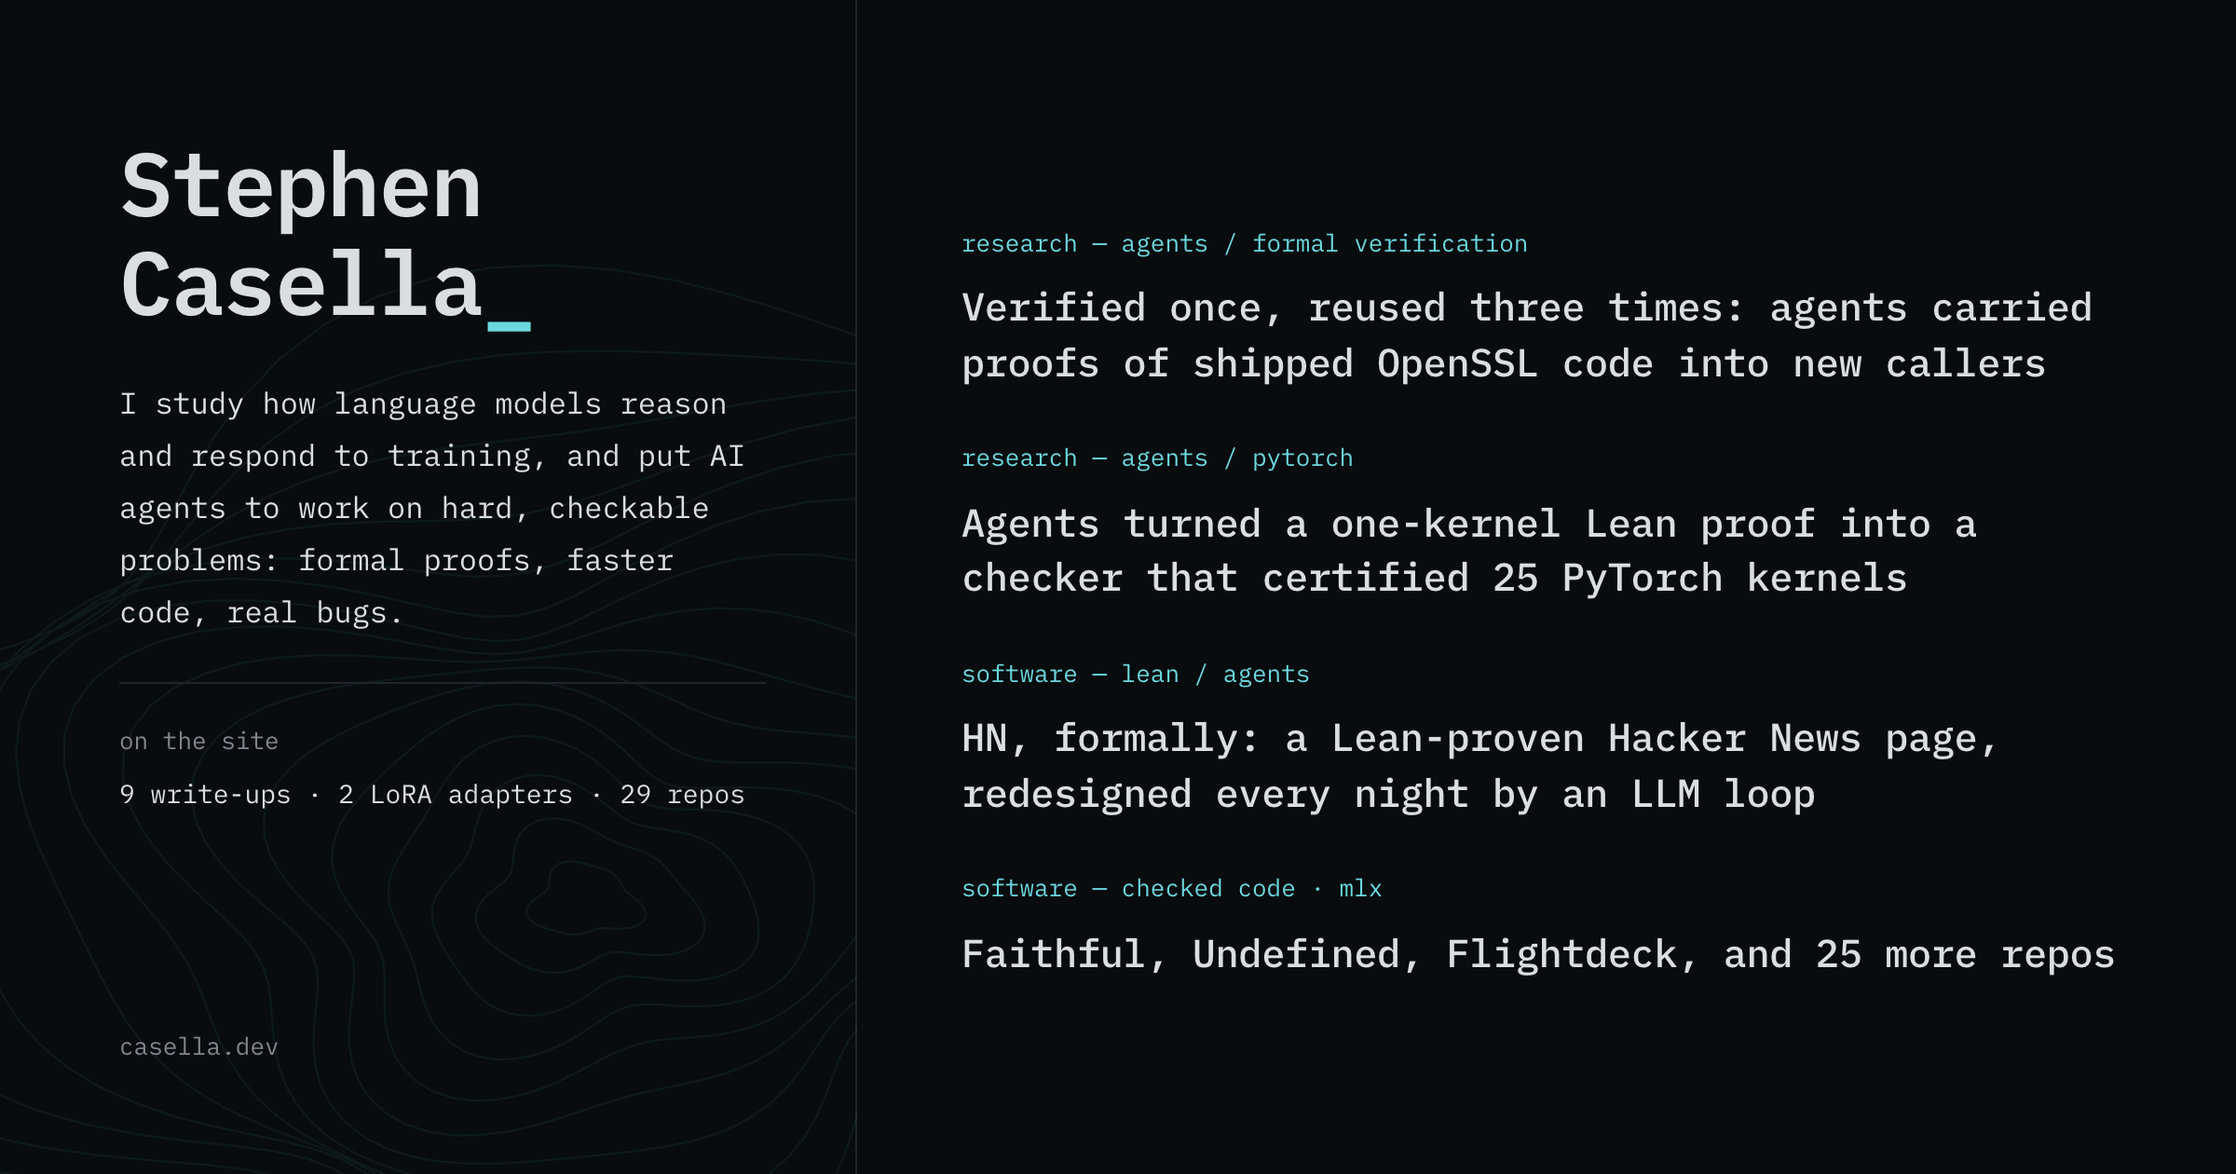
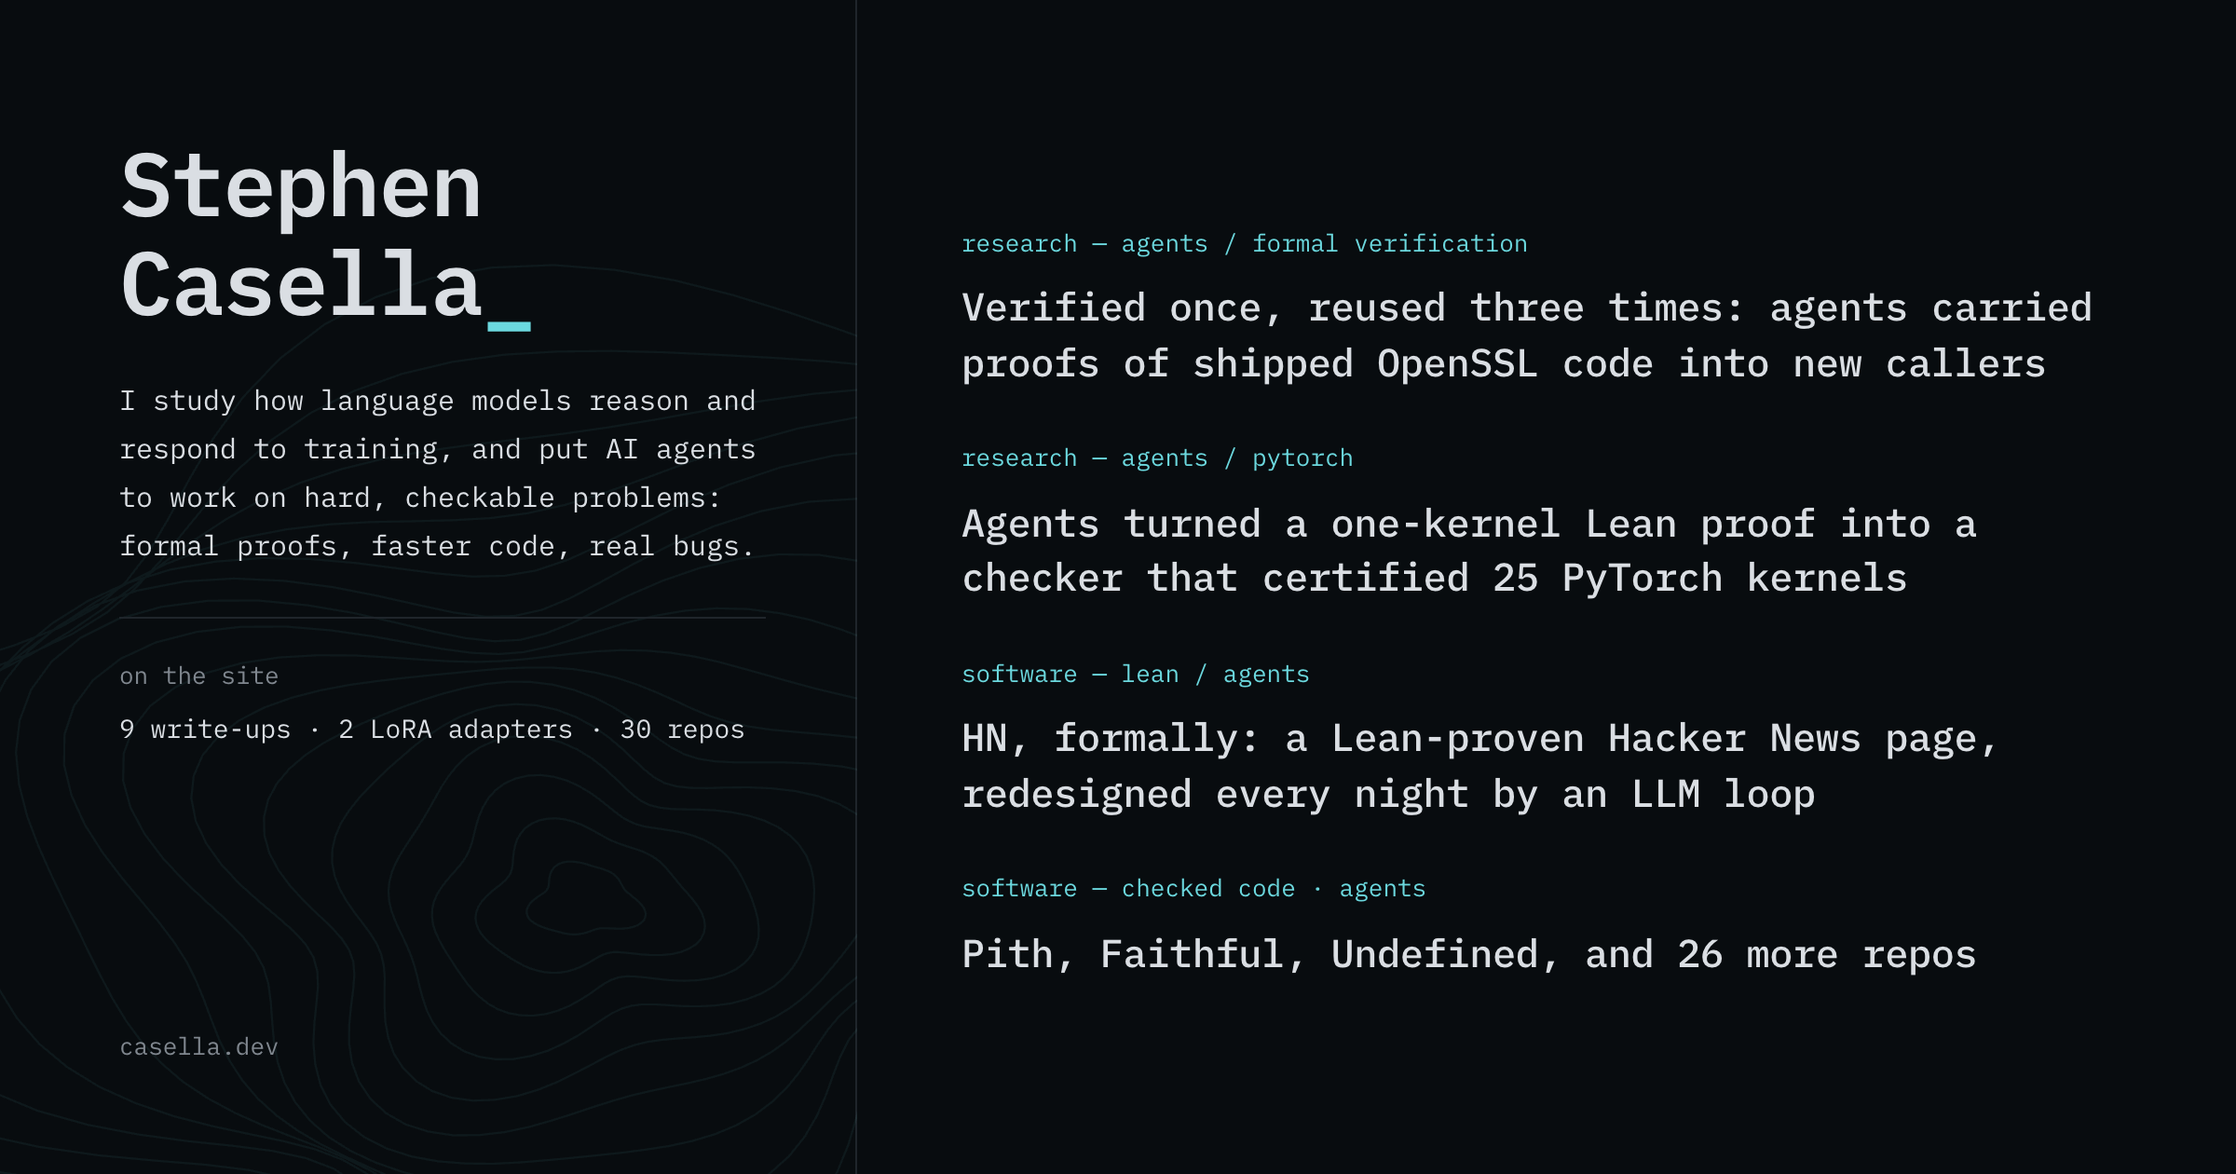
Deploy casella.dev from personal-site 706bdad

diff --git a/projects.html b/projects.html
@@ -5,7 +5,7 @@
     <meta charset="utf-8">
     <meta name="viewport" content="width=device-width, initial-scale=1, viewport-fit=cover">
     <title>Software | Stephen Casella</title>
-    <meta name="description" content="29 open-source repos by Stephen Casella: LLM research code, ML on Apple Silicon, agent tooling, and macOS menu bar utilities, with platform and dependency notes.">
+    <meta name="description" content="30 open-source repos by Stephen Casella: LLM research code, ML on Apple Silicon, agent tooling, and macOS menu bar utilities, with platform and dependency notes.">
     <meta name="author" content="Stephen Casella">
     <meta name="robots" content="index, follow">
     <meta name="theme-color" content="#080c0f">
@@ -13,7 +13,7 @@
     <meta property="og:site_name" content="Stephen Casella">
     <meta property="og:type" content="website">
     <meta property="og:title" content="~/software | Stephen Casella">
-    <meta property="og:description" content="29 repos: LLM research code, ML on Apple Silicon, agent tooling, and macOS utilities.">
+    <meta property="og:description" content="30 repos: LLM research code, ML on Apple Silicon, agent tooling, and macOS utilities.">
     <meta property="og:url" content="https://casella.dev/projects.html">
     <meta property="og:image" content="https://casella.dev/assets/og/home.png">
     <meta property="og:image:secure_url" content="https://casella.dev/assets/og/home.png">
@@ -22,7 +22,7 @@
     <meta property="og:image:alt" content="Stephen Casella's software, grouped by purpose">
     <meta name="twitter:card" content="summary_large_image">
     <meta name="twitter:title" content="~/software | Stephen Casella">
-    <meta name="twitter:description" content="29 repos: LLM research code, ML on Apple Silicon, agent tooling, and macOS utilities.">
+    <meta name="twitter:description" content="30 repos: LLM research code, ML on Apple Silicon, agent tooling, and macOS utilities.">
     <meta name="twitter:image" content="https://casella.dev/assets/og/home.png">
     <script async src="https://www.googletagmanager.com/gtag/js?id=G-2RSWDWW67D"></script>
     <script>
@@ -77,179 +77,185 @@
             },
             "mainEntity": {
               "@type": "ItemList",
-              "numberOfItems": 29,
+              "numberOfItems": 30,
               "itemListElement": [
                 {
                   "@type": "ListItem",
                   "position": 1,
+                  "name": "Pith",
+                  "url": "https://github.com/scasella/Pith"
+                },
+                {
+                  "@type": "ListItem",
+                  "position": 2,
                   "name": "HN, formally",
                   "url": "https://github.com/scasella/hn-formal"
                 },
                 {
                   "@type": "ListItem",
-                  "position": 2,
+                  "position": 3,
                   "name": "Faithful",
                   "url": "https://github.com/scasella/faithful"
                 },
                 {
                   "@type": "ListItem",
-                  "position": 3,
+                  "position": 4,
                   "name": "Undefined",
                   "url": "https://github.com/scasella/undefined"
                 },
                 {
                   "@type": "ListItem",
-                  "position": 4,
+                  "position": 5,
                   "name": "Panel-style reasoning",
                   "url": "https://github.com/scasella/multi-model"
                 },
                 {
                   "@type": "ListItem",
-                  "position": 5,
+                  "position": 6,
                   "name": "Society of Thought",
                   "url": "https://github.com/scasella/society-of-thought-bench"
                 },
                 {
                   "@type": "ListItem",
-                  "position": 6,
+                  "position": 7,
                   "name": "Hypothesis Forge",
                   "url": "https://github.com/scasella/hypothesis_forge"
                 },
                 {
                   "@type": "ListItem",
-                  "position": 7,
+                  "position": 8,
                   "name": "autoresearch-evo",
                   "url": "https://github.com/scasella/autoresearch-evo"
                 },
                 {
                   "@type": "ListItem",
-                  "position": 8,
+                  "position": 9,
                   "name": "Claim-correctness probes / ProbeMon",
                   "url": "https://github.com/scasella/activation-probes-claim-correctness"
                 },
                 {
                   "@type": "ListItem",
-                  "position": 9,
+                  "position": 10,
                   "name": "Qwen Scope Lab",
                   "url": "https://github.com/scasella/qwen-scope-lab"
                 },
                 {
                   "@type": "ListItem",
-                  "position": 10,
+                  "position": 11,
                   "name": "Block-sparse steering",
                   "url": "https://github.com/scasella/bsf-steering"
                 },
                 {
                   "@type": "ListItem",
-                  "position": 11,
+                  "position": 12,
                   "name": "Proofgrade",
                   "url": "https://github.com/scasella/Proofgrade"
                 },
                 {
                   "@type": "ListItem",
-                  "position": 12,
+                  "position": 13,
                   "name": "Adaptive retrieval experiments",
                   "url": "https://github.com/scasella/adaptive_rag_rlm"
                 },
                 {
                   "@type": "ListItem",
-                  "position": 13,
+                  "position": 14,
                   "name": "nanochat-mlx",
                   "url": "https://github.com/scasella/nanochat-mlx"
                 },
                 {
                   "@type": "ListItem",
-                  "position": 14,
+                  "position": 15,
                   "name": "Gemma 4 on a 24GB MacBook",
                   "url": "https://github.com/scasella/gemma4-m4-pro"
                 },
                 {
                   "@type": "ListItem",
-                  "position": 15,
+                  "position": 16,
                   "name": "Gemma 4 Sudoku on MLX",
                   "url": "https://github.com/scasella/train-gemma4-sudoku-on-your-macbook"
                 },
                 {
                   "@type": "ListItem",
-                  "position": 16,
+                  "position": 17,
                   "name": "TTT-Discover on MLX",
                   "url": "https://github.com/scasella/ttt-discover-autoresearch-mlx"
                 },
                 {
                   "@type": "ListItem",
-                  "position": 17,
+                  "position": 18,
                   "name": "Dynamic Workflows on Codex",
                   "url": "https://github.com/scasella/claude-dynamic-workflows-codex"
                 },
                 {
                   "@type": "ListItem",
-                  "position": 18,
+                  "position": 19,
                   "name": "Flightdeck",
                   "url": "https://github.com/scasella/claude-flightdeck"
                 },
                 {
                   "@type": "ListItem",
-                  "position": 19,
+                  "position": 20,
                   "name": "SunShift",
                   "url": "https://github.com/scasella/SunShift"
                 },
                 {
                   "@type": "ListItem",
-                  "position": 20,
+                  "position": 21,
                   "name": "TabPilot",
                   "url": "https://github.com/scasella/TabPilot"
                 },
                 {
                   "@type": "ListItem",
-                  "position": 21,
+                  "position": 22,
                   "name": "SafariMarkdown",
                   "url": "https://github.com/scasella/SafariMarkdown"
                 },
                 {
                   "@type": "ListItem",
-                  "position": 22,
+                  "position": 23,
                   "name": "GhostLabel",
                   "url": "https://github.com/scasella/GhostLabel"
                 },
                 {
                   "@type": "ListItem",
-                  "position": 23,
+                  "position": 24,
                   "name": "PasteForge",
                   "url": "https://github.com/scasella/PasteForge"
                 },
                 {
                   "@type": "ListItem",
-                  "position": 24,
+                  "position": 25,
                   "name": "TextDrop",
                   "url": "https://github.com/scasella/TextDrop"
                 },
                 {
                   "@type": "ListItem",
-                  "position": 25,
+                  "position": 26,
                   "name": "ClipDrop",
                   "url": "https://github.com/scasella/ClipDrop"
                 },
                 {
                   "@type": "ListItem",
-                  "position": 26,
+                  "position": 27,
                   "name": "DiskPulse",
                   "url": "https://github.com/scasella/DiskPulse"
                 },
                 {
                   "@type": "ListItem",
-                  "position": 27,
+                  "position": 28,
                   "name": "PortSentry",
                   "url": "https://github.com/scasella/PortSentry"
                 },
                 {
                   "@type": "ListItem",
-                  "position": 28,
+                  "position": 29,
                   "name": "ProcessBeacon",
                   "url": "https://github.com/scasella/ProcessBeacon"
                 },
                 {
                   "@type": "ListItem",
-                  "position": 29,
+                  "position": 30,
                   "name": "BrewPilot",
                   "url": "https://github.com/scasella/BrewPilot"
                 }
@@ -314,11 +320,12 @@
   <main class="flow proj-main">
     <div class="proj-head">
       <h1>~/software</h1>
-      <p>[ 29 repos ] platform · main dependency · install under each<span class="proj-head__hint"> // hover to preview</span></p>
+      <p>[ 30 repos ] platform · main dependency · install under each<span class="proj-head__hint"> // hover to preview</span></p>
     </div>
     <section class="proj-group" id="checked" aria-labelledby="checked-label">
-      <h2 class="label" id="checked-label"><span>Machine-checked software</span><span class="label__aside">03</span></h2>
+      <h2 class="label" id="checked-label"><span>Machine-checked software</span><span class="label__aside">04</span></h2>
         <ul class="proj-list">
+          <li><a href="https://github.com/scasella/Pith" rel="noopener" data-thumb="assets/readme-screenshots/pith.png" data-tags="Dafny 4.11 · TLC · Python with Hypothesis and Playwright, installed by bootstrap.sh · v0.4.1 release"><span class="proj__name">Pith</span><span class="proj__desc">A formally verified application core that a coding agent builds an application around, with a judge that says exactly which properties of the result are proved, model-checked, tested, or awaiting human review. The seed holds a Dafny-proven authorization-and-reservation kernel, the obligations every surrounding layer must satisfy (TLA+ invariants, black-box harnesses, a UI contract), and an evaluator that runs the candidate as a separate process and never trusts its output. Research prototype: four external reviews and one unassisted agent build so far, and a green result does not mean the application is correct.<span class="proj__meta">Dafny 4.11 · TLC · Python with Hypothesis and Playwright, installed by bootstrap.sh · v0.4.1 release</span><span class="proj__meta proj__meta--note">Not a payment system; no funds move. The frozen kernel, obligations, gate and profiles are hash-listed, and an operator pins the release before an agent gets a workspace.</span></span></a></li>
           <li><a href="https://github.com/scasella/hn-formal" rel="noopener" data-thumb="assets/readme-screenshots/hn-formal.png" data-tags="Nothing to install: hosted on GitHub Pages, refreshed every 15 minutes · Lean 4.34 and Node 22 to build · the loop runs claude-haiku-5-5 on GitHub Actions under spend caps"><span class="proj__name">HN, formally<span class="proj__repo">hn-formal</span></span><span class="proj__desc">The Hacker News front page and its 30 threads, rendered by a Lean 4 program proven to render every API input correctly, and redesigned every night by an LLM loop that releases without human review whenever a candidate passes. Structure, data fidelity and the no-injection property are proven; contrast, reflow and accessibility are checked per release in a browser and never called proven.<span class="proj__meta">Nothing to install: hosted on GitHub Pages, refreshed every 15 minutes · Lean 4.34 and Node 22 to build · the loop runs claude-haiku-5-5 on GitHub Actions under spend caps</span><span class="proj__meta proj__meta--note">The pages have no JavaScript and no external origins. The redesign loop sends the spec, the renderer, Lean’s errors and screenshots to an Anthropic-hosted model.</span><span class="proj__meta proj__meta--note">Unofficial and read-only; not affiliated with Y Combinator. Data from the HN Firebase API.</span></span></a></li>
           <li><a href="https://github.com/scasella/faithful" rel="noopener" data-thumb="assets/readme-screenshots/faithful.png" data-tags="Node 22.12+ · pnpm · Codex CLI · Lean 4 and Mathlib (about 12 GB) for proofs · Z3 optional · install from source, 0.1.0"><span class="proj__name">Faithful<span class="proj__repo">faithful</span></span><span class="proj__desc">Make one TypeScript function faster and see exactly how much of “it still does the same thing” was checked. Each rewrite must compile, stay pure, match the original on generated inputs, survive a bounded Z3 search and benchmark faster; one that is significantly faster is then proved in Lean 4 against a spec agreed in plain words. Every result carries one of five labels. Early: the translator accepts 39 of 74 corpus functions and 0 of 20 sampled from real libraries; in the launch campaign, 3 of 130 candidate rewrites were accepted with a proof and 72 were faster but not proved.<span class="proj__meta">Node 22.12+ · pnpm · Codex CLI · Lean 4 and Mathlib (about 12 GB) for proofs · Z3 optional · install from source, 0.1.0</span><span class="proj__meta proj__meta--note">Model calls go through the Codex CLI to an OpenAI-hosted model, and the UI shows each prompt verbatim. The browser showcase replays recorded sessions and sends nothing.</span><span class="proj__meta proj__meta--note">A proof is about a Lean model of the function and the agreed spec, never the TypeScript on every input.</span></span></a></li>
           <li><a href="https://github.com/scasella/undefined" rel="noopener" data-thumb="assets/readme-screenshots/undefined.png" data-tags="Nothing to install for the demo (recorded gpt-6-luna answers, live checks) · a local copy needs Node 20.19+ and the Codex CLI · install from source, 0.1.0"><span class="proj__name">Undefined<span class="proj__repo">undefined</span></span><span class="proj__desc">A live program that grows the functions you call but haven’t written. Bring a spreadsheet export and ask a question: a model drafts the calculation and the checks it must pass, asks what the question leaves open, and you approve the checks before anything counts. A strict TypeScript compiler, unit and property tests, and purity and time-limit gates then decide what is accepted, and only an answer that passes them all is shown; a mutation check reports which bugs those checks would miss. The same engine runs as a CLI and a GitHub Action that certify TypeScript from any source.<span class="proj__meta">Nothing to install for the demo (recorded gpt-6-luna answers, live checks) · a local copy needs Node 20.19+ and the Codex CLI · install from source, 0.1.0</span><span class="proj__meta proj__meta--note">In the demo, nothing about your program leaves the browser. Live mode sends each prompt through the Codex CLI to an OpenAI-hosted model: the signature, the doc, the names of your tests (never their bodies) and, if you share them, sample rows. Neither sandbox is a security boundary.</span></span></a></li>

diff --git a/index.html b/index.html
@@ -254,8 +254,16 @@
         </section>
 
         <section aria-labelledby="software" class="home-cols__software">
-          <h2 class="label" id="software"><span>selected software</span><a class="label__aside" href="projects.html">all 29 →</a></h2>
+          <h2 class="label" id="software"><span>selected software</span><a class="label__aside" href="projects.html">all 30 →</a></h2>
           <ul class="feats">
+          <li class="feat">
+            <p class="feat__name"><a href="https://github.com/scasella/Pith">Pith</a></p>
+            <div class="feat__body">
+              <p class="feat__desc">A formally verified application core that a coding agent builds an application around, with a judge that says exactly which properties of the result are proved, model-checked, tested, or awaiting human review. The seed holds a Dafny-proven authorization-and-reservation kernel, the obligations every surrounding layer must satisfy (TLA+ invariants, black-box harnesses, a UI contract), and an evaluator that runs the candidate as a separate process and never trusts its output. Research prototype: four external reviews and one unassisted agent build so far, and a green result does not mean the application is correct.</p>
+              <p class="feat__meta">Needs: Dafny 4.11 · TLC · Python with Hypothesis and Playwright, installed by bootstrap.sh · v0.4.1 release</p>
+              <p class="feat__actions"><a href="https://github.com/scasella/Pith/blob/main/AGENT.md">agent contract</a><span aria-hidden="true"> · </span><a href="https://github.com/scasella/Pith/blob/main/docs/VALIDATION.md">validation record</a><span aria-hidden="true"> · </span><a href="https://github.com/scasella/Pith/releases/latest">release v0.4.1</a><span aria-hidden="true"> · </span><a href="https://github.com/scasella/Pith">source</a></p>
+            </div>
+          </li>
           <li class="feat">
             <p class="feat__name"><a href="https://github.com/scasella/hn-formal">HN, formally</a></p>
             <div class="feat__body">
